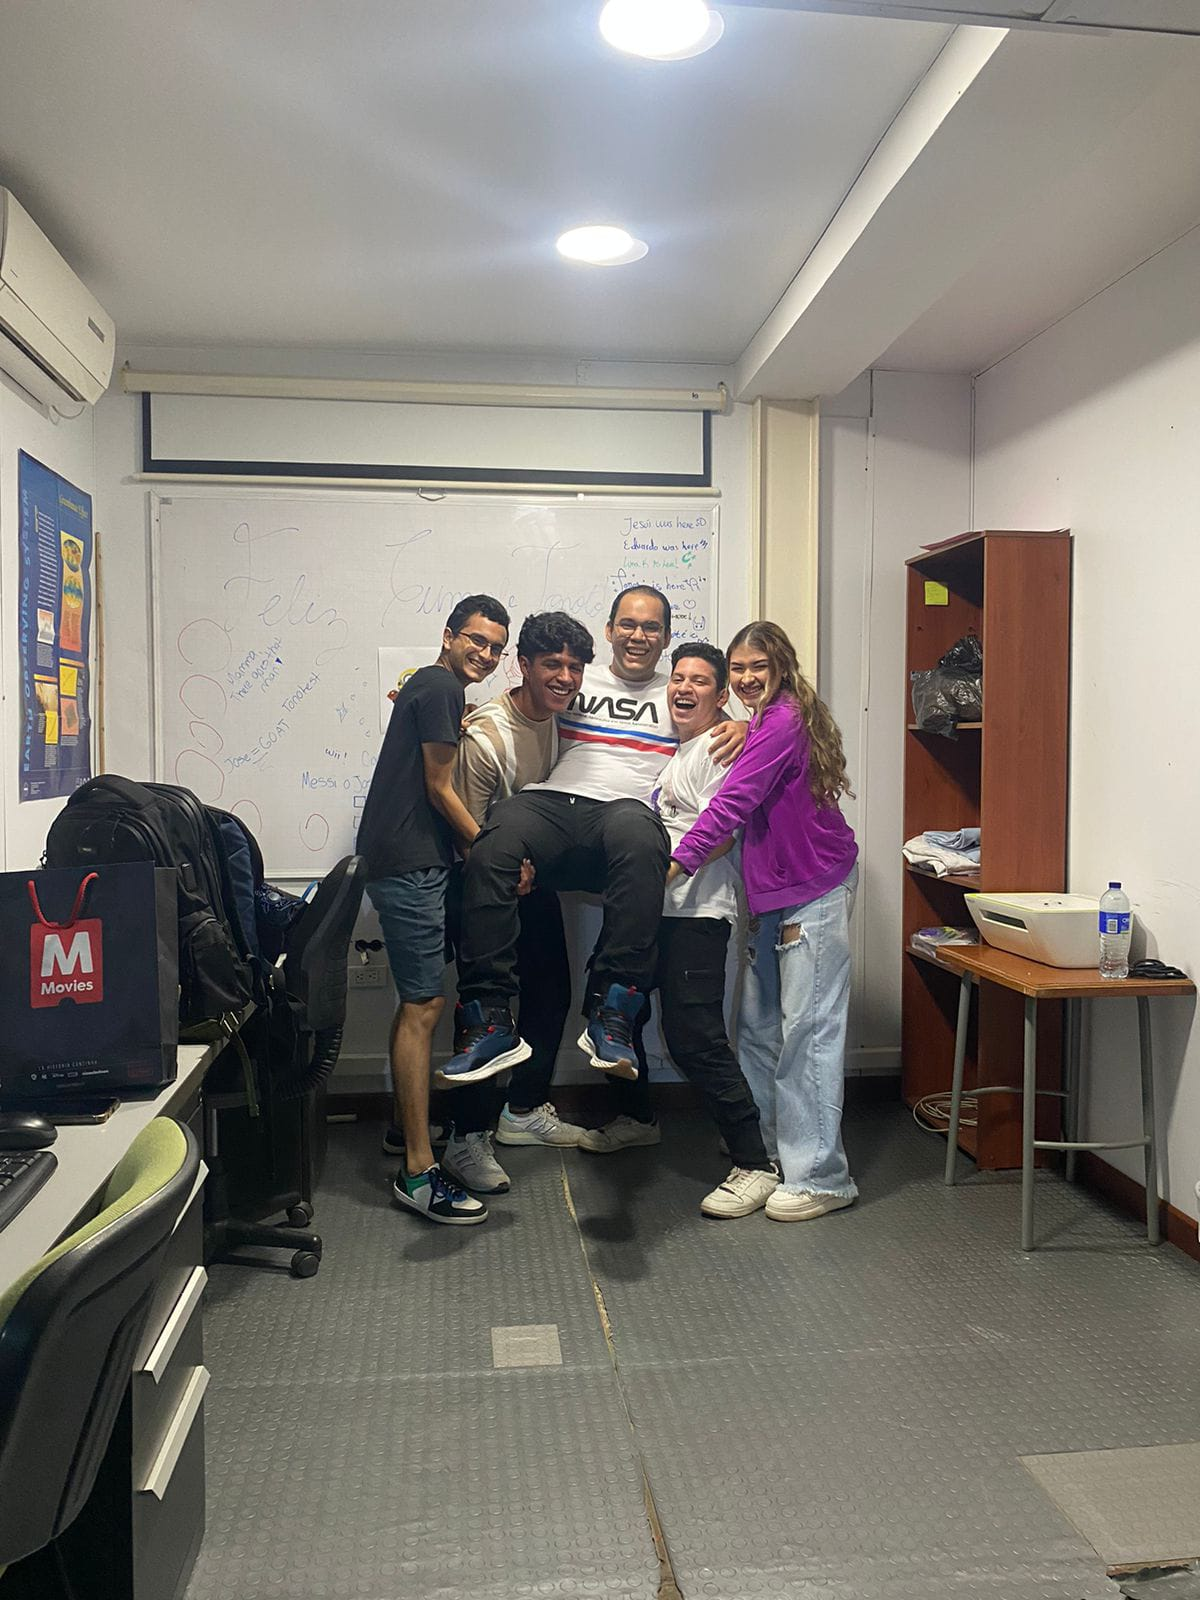
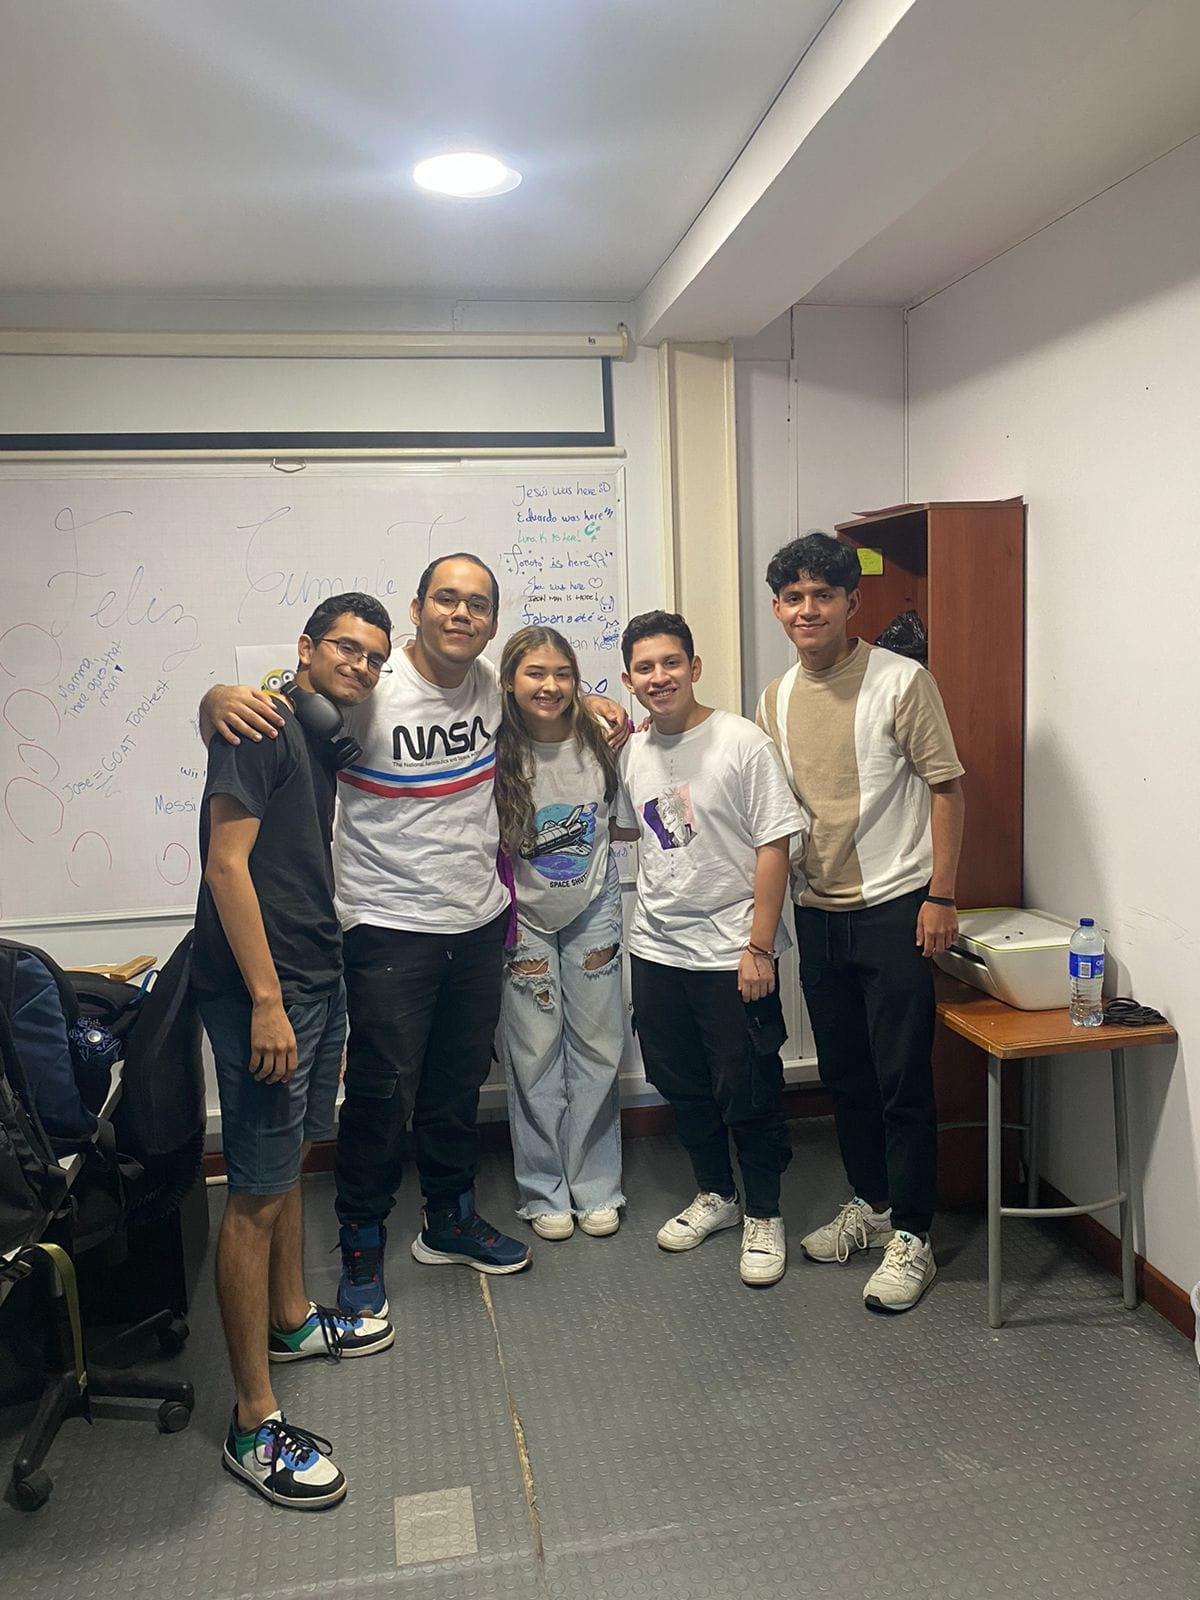
Adding images of the team members

diff --git a/app/page.tsx b/app/page.tsx
@@ -5,7 +5,11 @@ import exoplanetImage from '/app/images/exoplanet.jpg';
 import starsImage from '/app/images/stars.jpg';
 import Lenis from "lenis";
 import { useEffect } from "react";
-import fotoGrupal from "/app/images/grupal.jpg";
+import Fabian from "/app/images/Fabián.jpg";
+import Eduardo from "/app/images/Eduardo.jpg";
+import Isabella from "/app/images/Isabella.jpg";
+import Jose from "/app/images/Jose.jpg";
+import grupalPhoto from "/app/images/grupal.jpg";
 
 export default function Home() {
     useEffect(() => {
@@ -135,12 +139,25 @@ export default function Home() {
                     <p>Isabella Sofía Arrieta Guardo (@arrietai@utb.edu.co)</p>
                     <p>Eduardo Alejandro Negrín Pérez (@enegrin@utb.edu.co)</p>
                     <p>José Fernando González Ortiz (@joseortiz@utb.edu.co)</p>
-                    <div className="md:w-1/3 mt-10">
-                        <img
-                            src={fotoGrupal.src}
-                            alt="Team Photo"
-                            className="w-full h-auto rounded-lg shadow-lg"
-                        />
+                    <div className="flex flex-wrap justify-center mt-24">
+                        <div className="m-2 w-1/3 md:w-1/4">
+                            <Image src="" alt="Team Member 1" layout="responsive" width={300} height={300} className="rounded-lg" />
+                        </div>
+                        <div className="m-2 w-1/3 md:w-1/4">
+                            <Image src={Fabian.src} alt="Team Member 2" layout="responsive" width={300} height={300} className="rounded-lg" />
+                        </div>
+                        <div className="m-2 w-1/3 md:w-1/4">
+                            <Image src={Eduardo.src} alt="Team Member 3" layout="responsive" width={300} height={300} className="rounded-lg" />
+                        </div>
+                        <div className="m-2 w-1/3 md:w-1/4">
+                            <Image src={Isabella.src} alt="Team Member 4" layout="responsive" width={300} height={300} className="rounded-lg" />
+                        </div>
+                        <div className="m-2 w-1/3 md:w-1/4">
+                            <Image src={Jose.src} alt="Team Member 5" layout="responsive" width={400} height={400} className="rounded-lg" />
+                        </div>
+                        <div className="m-2 w-1/3 md:w-1/4">
+                            <Image src={grupalPhoto.src} alt="Photo in group" layout="responsive" width={400} height={400} className="rounded-lg" />
+                        </div>
                     </div>
                 </section>
             </div>
